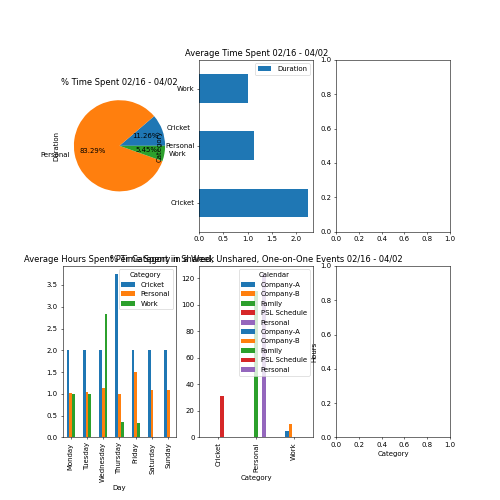
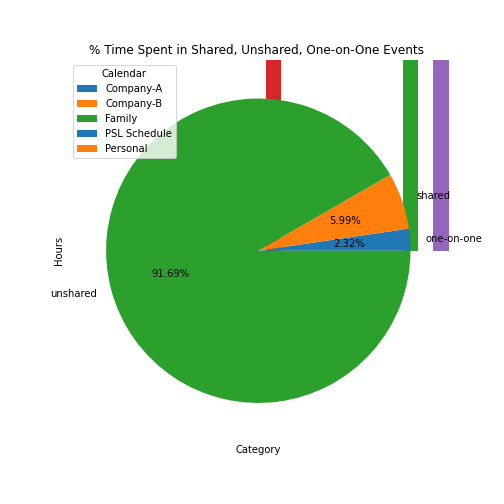
Creating new plots for shared, unshared, one-on-one Creating plot based on time of day Creating plot informing the user of unscheduled time

diff --git a/Google Calendar Event Categorizer/categorizer.py b/Google Calendar Event Categorizer/categorizer.py
@@ -225,7 +225,7 @@ def object_introspection_using_pandas(categories_objs, start, end, email_ids):
                 attendee_emails = set(attendee_emails)
                  #If no attendees present it is a presonal event
 
-                if len(attendees_of_event) == 0 or len(email_ids.intersection(attendee_emails)) > 1:
+                if len(attendees_of_event) == 0 or (len(email_ids.intersection(attendee_emails)) > 1 and len(attendee_emails.difference(email_ids)) == 0):
                      unshared = True
                      #Create a new unshared entry to add to the DataFrame
                      new_event_series = pd.Series(data = [category, calendar_name, desp,'unshared',start_date, end_date, start_time, end_time ], index=categorized_df.columns)
@@ -260,53 +260,104 @@ def analysis(categorized_df, start, end):
     df['Day']= df['Start'].dt.day_name()
     df['Day'] = pd.Categorical(df['Day'], categories=['Monday','Tuesday','Wednesday','Thursday','Friday','Saturday', 'Sunday'],ordered=True)
     
-    
-    
-    fig, axes = plt.subplots(nrows=2, ncols=3,dpi=50)
   
     #Plot % Time Spent per Category between timeframe specified 
+    fig, axs = plt.subplots()
     title = '% Time Spent ' +start+ " - " +end
-    df.groupby('Category')['Duration'].sum().plot( kind = 'pie', autopct='%1.2f%%', ax=axes[0,0], title = title, figsize=(10,10))
+    df.groupby('Category')['Duration'].sum().plot( kind = 'pie', autopct='%1.2f%%', title = title, figsize=(7,7), ax=axs)
     plt.xlabel(None)
     plt.ylabel(None)
      
     
     #Plot the average time spent per category 
+    fig, axs = plt.subplots()
     title = 'Average Time Spent ' +start+ " - " +end
-    df.groupby("Category").agg({"Duration" : np.mean}).plot(kind = 'barh', ax=axes[0,1], title=title, figsize=(10,10))
+    df.groupby("Category").agg({"Duration" : np.mean}).plot(kind = 'barh', title=title, figsize=(7,7), ax=axs)
     xlabel = 'Hours'
     ylabel = 'Category'
     plt.xlabel(xlabel)
     plt.ylabel(ylabel)
      
     #Average Time spent per Category in a Week
+    fig, axs = plt.subplots()
     title = 'Average Hours Spent Per Category in a Week'
     week = [ 'Monday', 'Tuesday', 'Wednesday', 'Thursday', 'Friday', 'Saturday', 'Sunday']
-    df.groupby(['Day', 'Category'])['Duration'].mean().sort_index().unstack().plot(kind='bar', ax=axes[1,0], title=title, figsize=(10,10))
+    df.groupby(['Day', 'Category'])['Duration'].mean().sort_index().unstack().plot(kind='bar', title=title, figsize=(7,7), ax=axs)
     xlabel = 'Day'
     ylabel = 'Category'
     plt.xlabel(xlabel)
     plt.ylabel(ylabel)
     
-    #Plot the % Time Spent per Calendar for every category
-    title = '% Time Spent Per Calendar ' +start+ " - " +end
-    df.groupby(['Category','Calendar'])['Duration'].sum().unstack().plot(kind='bar', ax=axes[1,1], title = title, figsize=(10,10))
+    #Plot the Total Time Spent per Calendar for every category
+    fig, axs = plt.subplots()
+    title = 'Total Time Spent Per Calendar ' +start+ " - " +end
+    df.groupby(['Category','Calendar'])['Duration'].sum().unstack().plot(kind='bar', title = title, figsize=(7,7), ax=axs)
     xlabel = 'Category'
     ylabel = 'Hours'
     plt.xlabel(xlabel)
     plt.ylabel(ylabel)
-    
     
     #Plot the % Time Spent in Shared, Unshared, One-on-One events
-    title = '% Time Spent in Shared, Unshared, One-on-One Events ' +start+ " - " +end
-    df.groupby(['Category','Calendar'])['Duration'].sum().unstack().plot(kind='bar', ax=axes[1,1], title = title, figsize=(10,10))
+    fig, axs = plt.subplots()
+    title = '% Time Spent in Shared, Unshared, One-on-One Events '
+    df.groupby('Attendees')['Duration'].sum().plot( kind = 'pie', autopct='%1.2f%%', title = title, figsize=(7,7), ax=axs)
+    plt.xlabel(None)
+    plt.ylabel(None)
+    
+    #Plot the average time spent in Shared, Unshared, One-on-One 
+    fig, axs = plt.subplots()
+    title = 'Average Time Spent in Shared, Unshared, One-on-One' +start+ " - " +end
+    df.groupby("Attendees").agg({"Duration" : np.mean}).plot(kind = 'barh', title=title, figsize=(7,7), ax=axs)
+    xlabel = 'Hours'
+    ylabel = 'Category'
+    plt.xlabel(xlabel)
+    plt.ylabel(ylabel)
+    
+     #Average Time spent in Shared,Unshared, One-on-One in a Week
+    fig, axs = plt.subplots()
+    title = 'Average Time spent in Shared,Unshared, One-on-One in a Week'
+    week = [ 'Monday', 'Tuesday', 'Wednesday', 'Thursday', 'Friday', 'Saturday', 'Sunday']
+    df.groupby(['Day', 'Attendees'])['Duration'].mean().sort_index().unstack().plot(kind='bar', title=title, figsize=(7,7), ax=axs)
+    xlabel = 'Day'
+    ylabel = 'Category'
+    plt.xlabel(xlabel)
+    plt.ylabel(ylabel)
+    
+    fig, axs = plt.subplots()
+    title = 'Total Time Spent Per Calendar in Shared, Unshared, Events' +start+ " - " +end
+    df.groupby(['Attendees','Calendar'])['Duration'].sum().unstack().plot(kind='bar', title = title, figsize=(7,7), ax=axs)
     xlabel = 'Category'
     ylabel = 'Hours'
     plt.xlabel(xlabel)
     plt.ylabel(ylabel)
     
+    fig, axs = plt.subplots()
+    title = 'Average Time Spent per Category by Hour of Day ' +start+ " - " +end
+    df.groupby(['Start Time','Category'])['Duration'].mean().unstack().plot(kind='bar', title = title, figsize=(7,7), ax=axs)
+    xlabel = 'Time of Day'
+    ylabel = 'Hours'
+    plt.xlabel(xlabel)
+    plt.ylabel(ylabel)
     
-    plt.savefig('results.png')
+    fig, axs = plt.subplots()
+    title = 'Average Time Spent Per Attendee by Hour of Day ' +start+ " - " +end
+    df.groupby(['Start Time','Attendees'])['Duration'].mean().unstack().plot(kind='bar', title = title, figsize=(7,7), ax=axs)
+    xlabel = 'Time of Day'
+    ylabel = 'Hours'
+    plt.xlabel(xlabel)
+    plt.ylabel(ylabel)
+    
+    
+    fig, axs = plt.subplots()
+    title = 'Average Unscheduled Hours in a Week'
+    unscheduled = 12 - df.groupby(['Start Date', 'Day'])['Duration'].sum()
+    unscheduled = unscheduled.groupby('Day').mean().plot(kind='bar', title = title, figsize=(7,7), ax=axs)
+    xlabel = 'Day'
+    ylabel = 'Hours'
+    plt.xlabel(xlabel)
+    plt.ylabel(ylabel)
+    
+    
      
 
 class Category():
